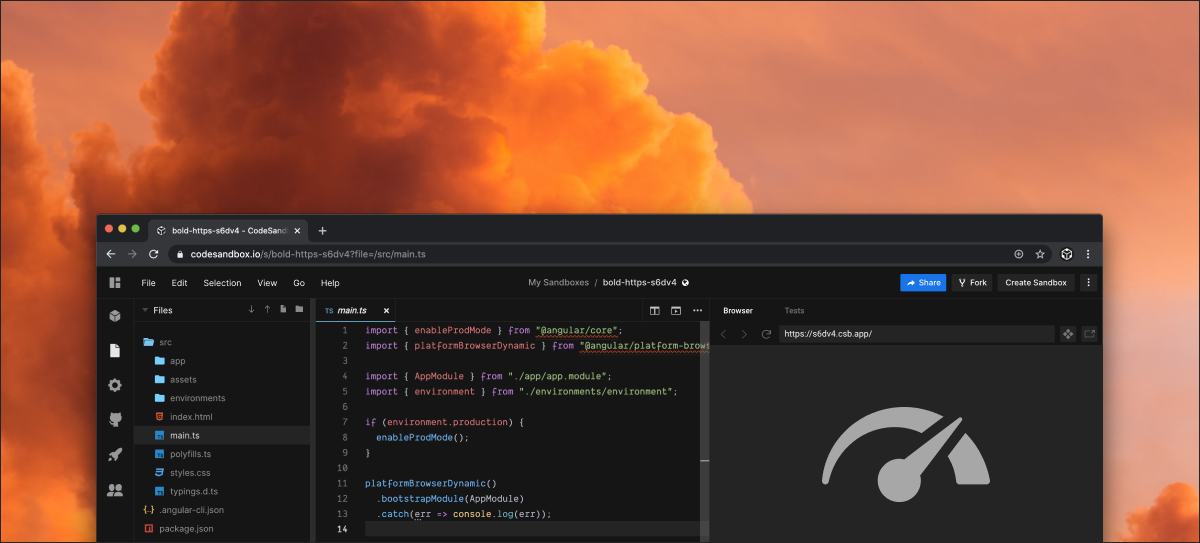
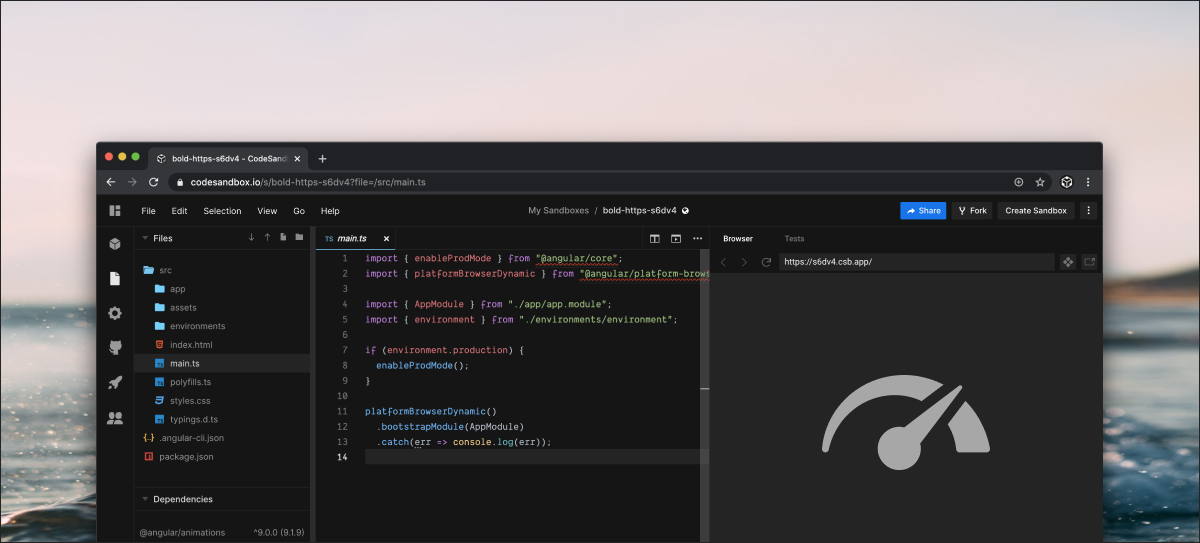
fixed footer + updated bg for landing pages (align with changelog)

diff --git a/packages/homepage/src/pages/ide/index.js b/packages/homepage/src/pages/ide/index.js
@@ -33,6 +33,11 @@ import {
   Border,
   ImageWrapper,
 } from './_elements';
+
+import red from '../../assets/images/bg/red.jpg';
+import purple from '../../assets/images/bg/purple.jpg';
+import blue from '../../assets/images/bg/blue.jpg';
+
 import TemplateUniverse from '../../assets/images/TemplateUniverse.png';
 import containers from '../../assets/images/containers.png';
 import prototype from '../../assets/images/prototype-rapid.png';
@@ -99,7 +104,7 @@ export default () => (
         Use templates to kickstart new projects with no setup.
       </Description>
     </PageContainer>
-    <ArtWorkWrapper bg="#535bcf">
+    <ArtWorkWrapper bg={purple}>
       <img src={TemplateUniverse} alt="Template Universe" />
     </ArtWorkWrapper>
     <Grid>
@@ -161,7 +166,7 @@ export default () => (
     <Border />
     <Wrapper>
       <Titles>Prototype Rapidly</Titles>
-      <ArtWorkWrapper bg="#535bcf">
+      <ArtWorkWrapper bg={blue}>
         <img src={prototype} alt="Prototype Rapidly" />
       </ArtWorkWrapper>
       <Grid>
@@ -218,7 +223,7 @@ export default () => (
       <CollaborateIcon />
       <Titles>Collaborate on Code</Titles>
       <ArtWorkWrapper
-        bg="#EB455A"
+        bg={red}
         css={`
           justify-content: flex-end;
         `}
@@ -246,7 +251,7 @@ export default () => (
       <TerminalIcon />
       <Titles>Work with Containers</Titles>
       <ArtWorkWrapper
-        bg="#535BCF"
+        bg={purple}
         css={`
           justify-content: flex-start;
         `}
@@ -275,7 +280,7 @@ export default () => (
       <DebugIcon />
       <Titles>Debug Like a Pro</Titles>
       <ArtWorkWrapper
-        bg="#EB455A"
+        bg={blue}
         css={`
           justify-content: flex-start;
         `}

diff --git a/packages/homepage/src/templates/_feature.elements.js b/packages/homepage/src/templates/_feature.elements.js
@@ -37,9 +37,9 @@ export const Description = styled.h2`
 `;
 
 export const Banner = styled.div`
-  ${({ color, reverse, coverSmaller }) => css`
-    background: #${color};
-
+  ${({ color, bgImage, reverse, coverSmaller }) => css`
+    background: #${color} url(${bgImage}) center;
+    background-size: cover;
     height: ${coverSmaller ? '380px' : '480px'};
     width: 100%;
 
@@ -53,7 +53,7 @@ export const Banner = styled.div`
     align-items: flex-end;
     flex-grow: 0;
     flex-shrink: 1;
-    /* border-radius: 4px; */
+
     clip-path: inset(0px round 0.5rem);
     -webkit-mask-image: -webkit-radial-gradient(white, black);
     overflow: hidden;

diff --git a/packages/homepage/src/pages/ide/_elements.js b/packages/homepage/src/pages/ide/_elements.js
@@ -79,7 +79,8 @@ export const ArtWorkWrapper = styled.div`
   display: flex;
   align-items: flex-end;
   justify-content: center;
-  background: ${props => props.bg};
+  background: url(${props => props.bg}) center;
+  background-size: cover;
   border: 1px solid ${props => props.theme.homepage.grey};
   box-sizing: border-box;
   border-radius: 4px;
@@ -156,6 +157,11 @@ export const TweetsWrapper = styled.div`
     position: absolute;
     margin-top: 2rem;
     z-index: 10;
+
+    ::-webkit-scrollbar {
+      display: none;
+      overflow-style: none;
+    }
 
     ${props => props.theme.breakpoints.sm} {
       display: none;

diff --git a/packages/homepage/src/templates/feature.js b/packages/homepage/src/templates/feature.js
@@ -24,6 +24,7 @@ export default ({
       frontmatter: {
         columns,
         bgColor,
+        bgImage,
         SEOText,
         description,
         coverImage,
@@ -105,6 +106,7 @@ export default ({
         <Banner
           coverSmaller={coverSmaller}
           color={bgColor}
+          bgImage={bgImage.publicURL}
           reverse={coverReversed}
         >
           {coverReversed ? (
@@ -135,6 +137,9 @@ export const pageQuery = graphql`
       frontmatter {
         columns
         bgColor
+        bgImage {
+          publicURL
+        }
         SEOText
         description
         tweetText

diff --git a/packages/homepage/src/screens/home/heroB/elements.js b/packages/homepage/src/screens/home/heroB/elements.js
@@ -143,25 +143,21 @@ export const InspiredText = styled.span`
 export const HeroImage = styled.img`
   max-width: 576px;
   min-width: 100%;
-  padding: 0 1rem;
+  box-shadow: 0.25rem 0 2rem #000;
 
   overflow: hidden;
   border-radius: 4px;
-  box-shadow: rgba(0, 0, 0, 0.3) 20px 14px 47px 0px;
 
   @media screen and (min-width: 576px) {
     max-width: 576px;
-    padding: 0 1rem;
   }
 
   @media screen and (min-width: 768px) {
     max-width: 768px;
-    padding: 0 1rem;
   }
 
   @media screen and (min-width: 960px) {
     max-width: 960px;
-    padding: 0 1rem;
   }
 `;
 

diff --git a/packages/homepage/src/screens/home/join/index.js b/packages/homepage/src/screens/home/join/index.js
@@ -22,7 +22,15 @@ const Join = ({ src, ...style }) => {
           `}
           style={{ ...style, y }}
         >
-          <IDE src={HeroSmall} alt="safari with codesandbox" />
+          <IDE
+            src={HeroSmall}
+            alt="safari with codesandbox"
+            css={`
+              width: 613px;
+              box-shadow: 0 0.5rem 2rem #040404;
+              border-radius: 0.25rem 0 0 0;
+            `}
+          />
         </motion.div>
       </JoinWrapper>
     </>

diff --git a/packages/homepage/src/components/Footer/elements.js b/packages/homepage/src/components/Footer/elements.js
@@ -40,7 +40,7 @@ export const Nav = styled.section`
 export const Social = styled.ul`
   display: grid;
   grid-gap: 1rem;
-  grid-template-columns: repeat(3, 1rem);
+  grid-template-columns: repeat(2, 1rem);
   justify-content: center;
   padding: 0;
   margin: 0;

diff --git a/packages/homepage/content/features/onboarding/index.md b/packages/homepage/content/features/onboarding/index.md
@@ -11,7 +11,8 @@ tweetText: All our web workshops are built with it!
 tweetJob: Founder of Vue Vixens
 tweetName: Jen Looper
 tweetHandle: jenlooper
-bgColor: BF5AF2
+bgColor: FBCC43
+bgImage: ./yellow.jpg
 coverImage: ./onboarding.svg
 coverReversed: true
 coverSmaller: true

diff --git a/packages/homepage/content/features/prototyping/index.md b/packages/homepage/content/features/prototyping/index.md
@@ -12,6 +12,7 @@ tweetJob: Software Architect, Universal Audio
 tweetName: Rob Eisenberg
 tweetHandle: EisenbergEffect
 bgColor: BF5AF2
+bgImage: ./purple.jpg
 coverImage: ./prototyping.svg
 coverReversed: true
 coverSmaller: true

diff --git a/packages/homepage/content/features/open-source/index.md b/packages/homepage/content/features/open-source/index.md
@@ -12,6 +12,7 @@ tweetJob: Software Engineer, Preact Core Team
 tweetName: Marvin Hagemeister
 tweetHandle: marvinhagemeist
 bgColor: 0971F1
+bgImage: ./blue.jpg
 coverImage: ./hiring.svg
 coverReversed: true
 coverSmaller: true

diff --git a/packages/homepage/content/features/hiring/index.md b/packages/homepage/content/features/hiring/index.md
@@ -12,6 +12,7 @@ tweetJob: Head of Developer Experience, Netlify
 tweetName: Sarah Drasner
 tweetHandle: sarah_edo
 bgColor: F69935
+bgImage: ./orange.jpg
 coverImage: ./hiring.svg
 coverReversed: true
 coverSmaller: true

diff --git a/packages/homepage/content/features/collaboration/index.md b/packages/homepage/content/features/collaboration/index.md
@@ -13,6 +13,7 @@ tweetJob: Co-founder, Egghead
 tweetName: John Lindquist
 tweetHandle: johnlindquist
 bgColor: FBCC43
+bgImage: ./yellow.jpg
 coverImage: ./collaboration.svg
 coverReversed: true
 coverSmaller: true
